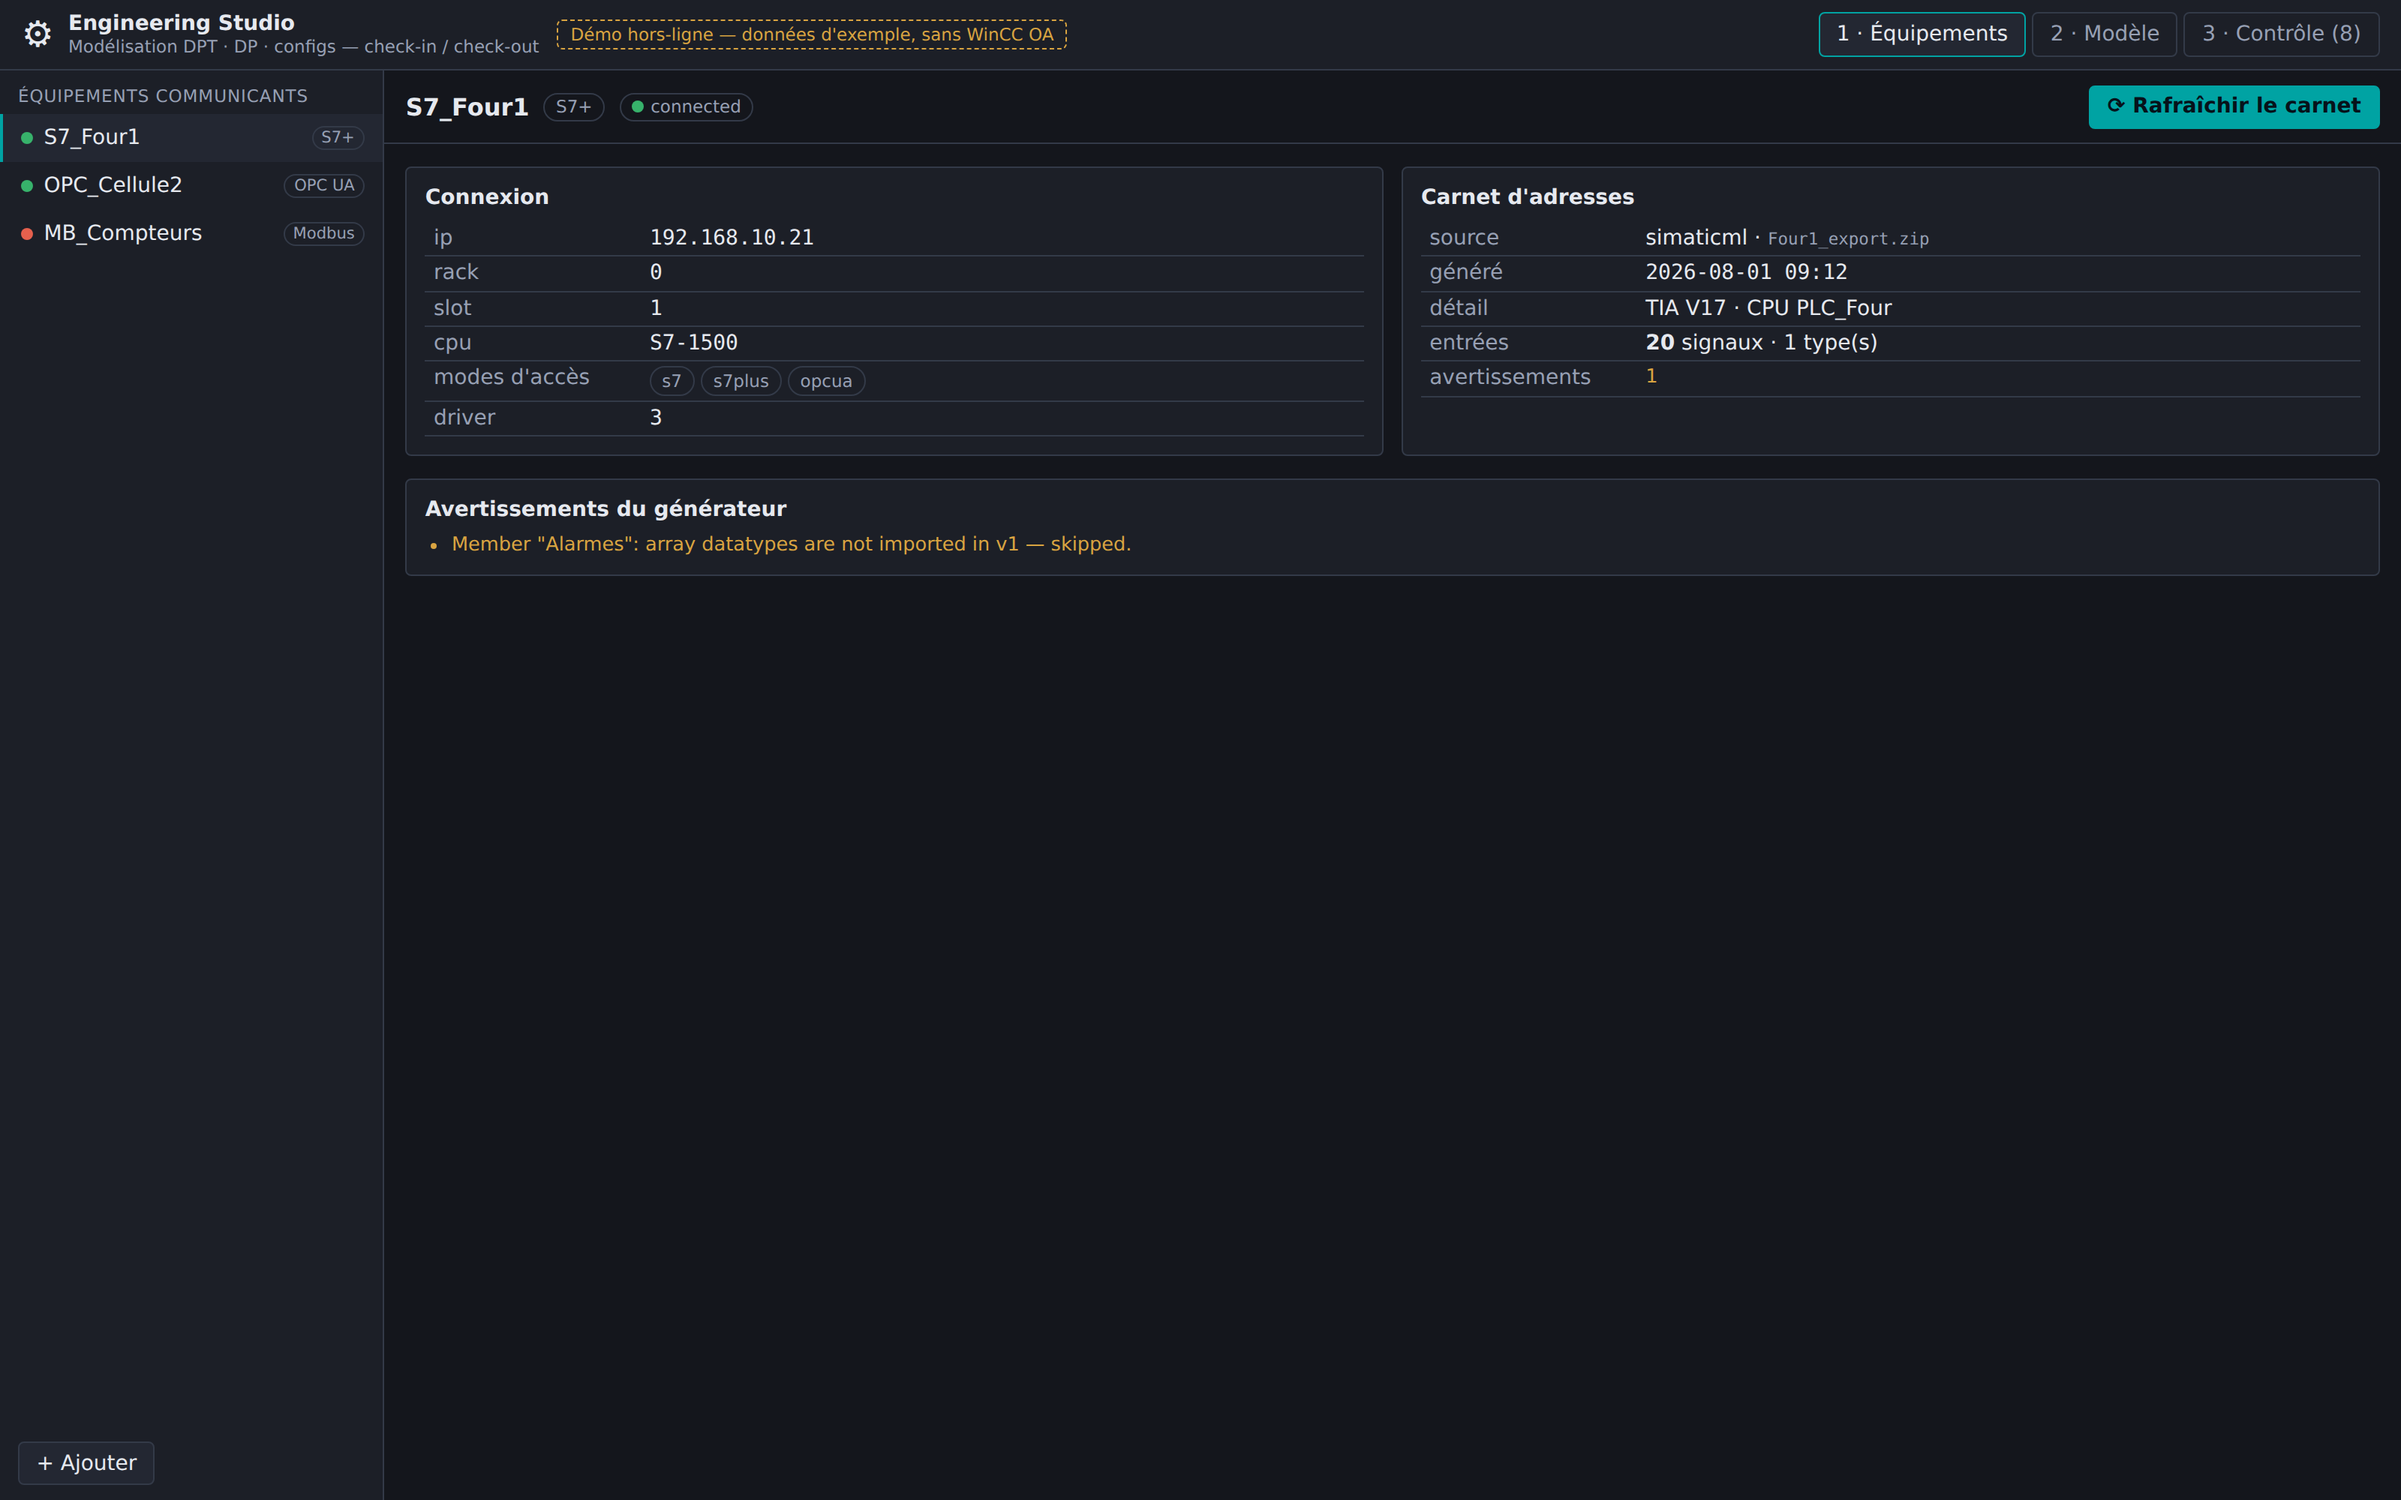
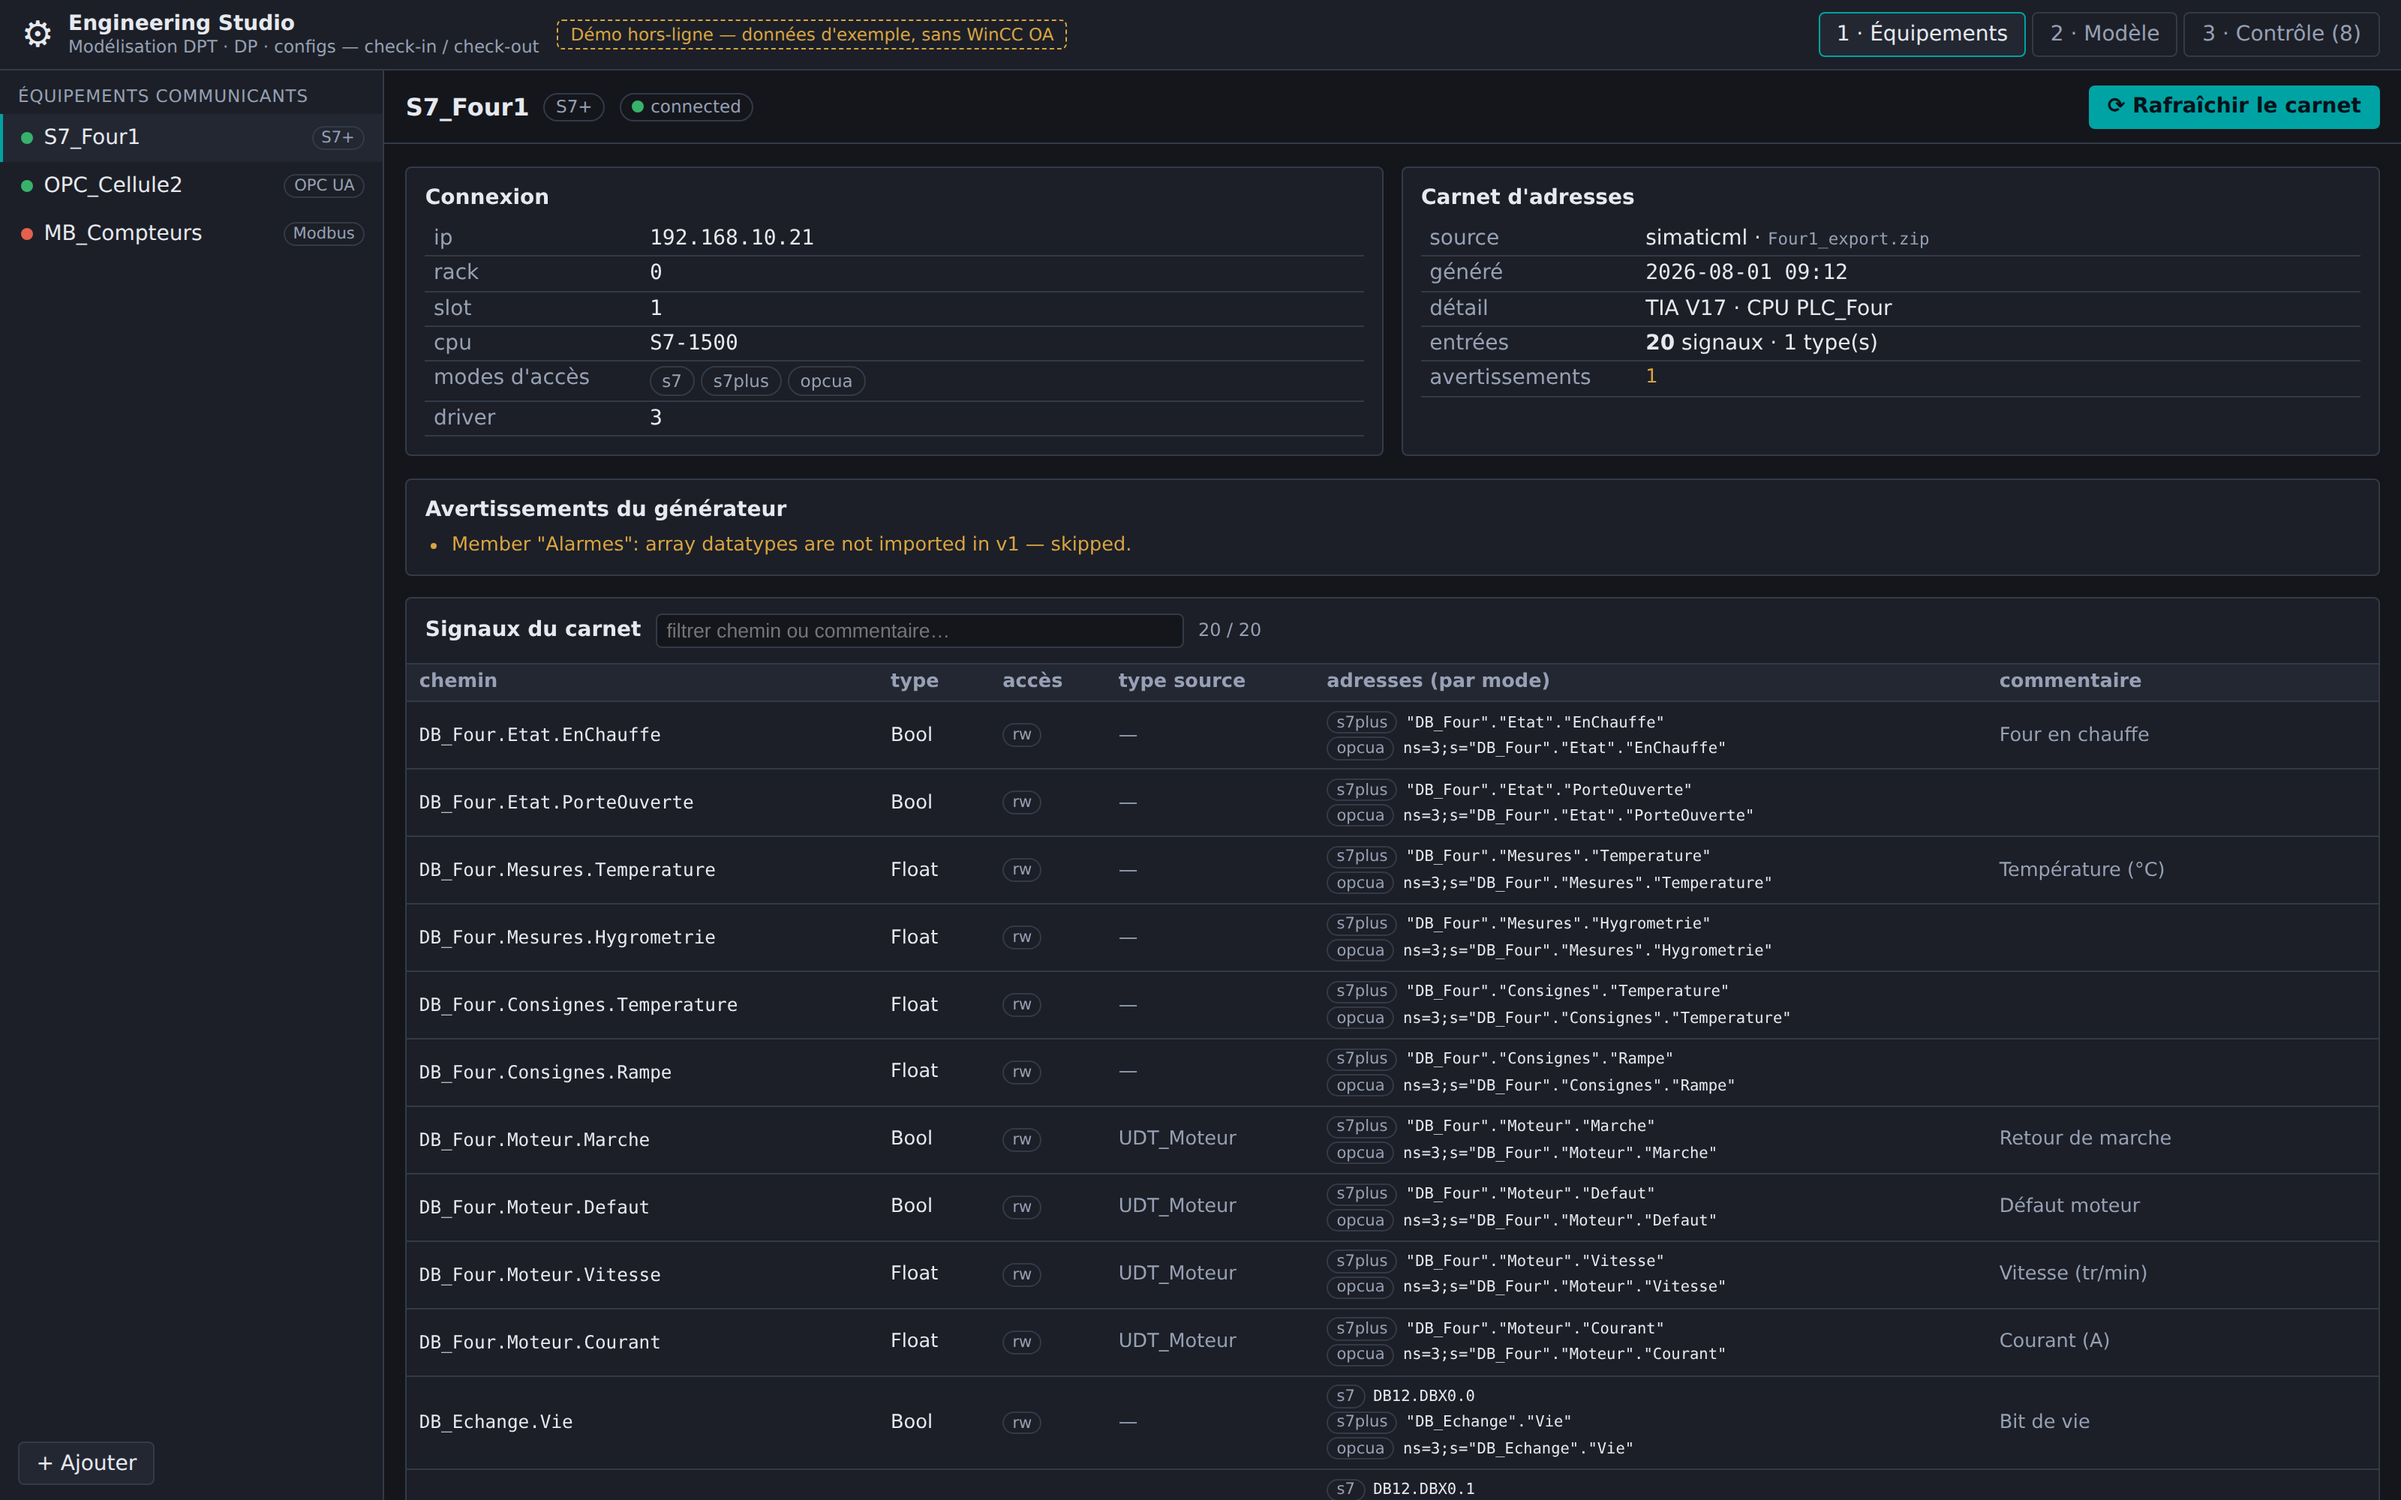
feat(eng-studio): show the address book's signals in the Devices panel
The Devices/address-book panel previously showed only book metadata; the signals
were browsable only in the Model panel. Add a filterable "Signaux du carnet"
table right in the address-book page: per signal, its path, WinCC OA leaf type,
access, source type (UDT origin), the CANDIDATE ADDRESS PER ACCESS MODE
(s7 classic operand for standard blocks, s7plus/opcua symbolic) and comment.

The Devices panel body is now scrollable to hold the table.

Claude-Session: https://claude.ai/code/session_01MwNmzQMzA9TWadsF5AoXxT

diff --git a/libs/wui-eng-studio/src/eng-studio.ts b/libs/wui-eng-studio/src/eng-studio.ts
@@ -49,6 +49,8 @@ export class WuiEngStudio extends LitElement {
   @state() private selectedDeviceId: string | null = null;
   @state() private book: AddressBook | null = null;
   @state() private bookFilter = '';
+  /** Filter for the signal table shown in the Devices panel's address book. */
+  @state() private signalFilter = '';
   @state() private workspace: Workspace | null = null;
   @state() private live: LiveSnapshot | null = null;
   @state() private plan: EngPlan | null = null;
@@ -197,35 +199,93 @@ export class WuiEngStudio extends LitElement {
           ? html`<button class="btn primary" ?disabled=${this.busy} @click=${this.onRefreshBook}>⟳ Rafraîchir le carnet</button>`
           : nothing}
       </div>
-      <div class="device-grid">
-        <section class="card">
-          <div class="card-title">Connexion</div>
-          <table class="kv">
-            ${Object.entries(device.connection).map(
-              ([k, v]) => html`<tr><td>${k}</td><td class="mono">${String(v)}</td></tr>`
-            )}
-            <tr><td>modes d'accès</td><td>${device.accessModes.map((m) => html`<span class="chip">${m}</span> `)}</td></tr>
-            <tr><td>driver</td><td class="mono">${device.driverNumber ?? '—'}</td></tr>
-          </table>
-        </section>
-        <section class="card">
-          <div class="card-title">Carnet d'adresses</div>
-          ${book
-            ? html`
-                <table class="kv">
-                  <tr><td>source</td><td>${book.provenance.kind}${book.provenance.file ? html` · <code>${book.provenance.file}</code>` : nothing}</td></tr>
-                  <tr><td>généré</td><td class="mono">${book.provenance.generatedAt.replace('T', ' ').slice(0, 16)}</td></tr>
-                  <tr><td>détail</td><td>${book.provenance.detail ?? '—'}</td></tr>
-                  <tr><td>entrées</td><td><b>${book.entries.length}</b> signaux · ${book.types.length} type(s)</td></tr>
-                  ${book.warnings.length > 0 ? html`<tr><td>avertissements</td><td class="warn-text">${book.warnings.length}</td></tr>` : nothing}
-                </table>
-              `
-            : html`<div class="empty small">Pas encore de carnet — ingérez un export SimaticML ou lancez un browse.</div>`}
-        </section>
+      <div class="panel-scroll">
+        <div class="device-grid">
+          <section class="card">
+            <div class="card-title">Connexion</div>
+            <table class="kv">
+              ${Object.entries(device.connection).map(
+                ([k, v]) => html`<tr><td>${k}</td><td class="mono">${String(v)}</td></tr>`
+              )}
+              <tr><td>modes d'accès</td><td>${device.accessModes.map((m) => html`<span class="chip">${m}</span> `)}</td></tr>
+              <tr><td>driver</td><td class="mono">${device.driverNumber ?? '—'}</td></tr>
+            </table>
+          </section>
+          <section class="card">
+            <div class="card-title">Carnet d'adresses</div>
+            ${book
+              ? html`
+                  <table class="kv">
+                    <tr><td>source</td><td>${book.provenance.kind}${book.provenance.file ? html` · <code>${book.provenance.file}</code>` : nothing}</td></tr>
+                    <tr><td>généré</td><td class="mono">${book.provenance.generatedAt.replace('T', ' ').slice(0, 16)}</td></tr>
+                    <tr><td>détail</td><td>${book.provenance.detail ?? '—'}</td></tr>
+                    <tr><td>entrées</td><td><b>${book.entries.length}</b> signaux · ${book.types.length} type(s)</td></tr>
+                    ${book.warnings.length > 0 ? html`<tr><td>avertissements</td><td class="warn-text">${book.warnings.length}</td></tr>` : nothing}
+                  </table>
+                `
+              : html`<div class="empty small">Pas encore de carnet — ingérez un export SimaticML ou lancez un browse.</div>`}
+          </section>
+        </div>
+        ${book && book.warnings.length > 0
+          ? html`<section class="card warnings"><div class="card-title">Avertissements du générateur</div><ul>${book.warnings.map((w) => html`<li>${w}</li>`)}</ul></section>`
+          : nothing}
+        ${book ? this.renderDeviceSignals(book) : nothing}
       </div>
-      ${book && book.warnings.length > 0
-        ? html`<section class="card warnings"><div class="card-title">Avertissements du générateur</div><ul>${book.warnings.map((w) => html`<li>${w}</li>`)}</ul></section>`
-        : nothing}
+    `;
+  }
+
+  /** Signal table of the current device's address book (in the Devices panel). */
+  private renderDeviceSignals(book: AddressBook): TemplateResult {
+    const entries = filterEntries(book, this.signalFilter);
+    const modes = this.currentDevice()?.accessModes ?? [];
+    return html`
+      <section class="card signals">
+        <div class="signals-head">
+          <div class="card-title">Signaux du carnet</div>
+          <input
+            class="filter"
+            placeholder="filtrer chemin ou commentaire…"
+            .value=${this.signalFilter}
+            @input=${(e: Event) => (this.signalFilter = (e.target as HTMLInputElement).value)}
+          />
+          <span class="soft signals-count">${entries.length} / ${book.entries.length}</span>
+        </div>
+        <div class="signals-scroll">
+          <table class="grid">
+            <thead>
+              <tr>
+                <th>chemin</th><th>type</th><th>accès</th>
+                <th>type source</th><th>adresses (par mode)</th><th>commentaire</th>
+              </tr>
+            </thead>
+            <tbody>
+              ${entries.map((entry) => this.renderSignalRow(entry, modes))}
+            </tbody>
+          </table>
+        </div>
+      </section>
+    `;
+  }
+
+  private renderSignalRow(entry: BookEntry, deviceModes: string[]): TemplateResult {
+    // Order the candidate addresses by the device's access modes first.
+    const present = Object.keys(entry.addresses);
+    const ordered = [...deviceModes.filter((m) => present.includes(m)), ...present.filter((m) => !deviceModes.includes(m))];
+    return html`
+      <tr>
+        <td class="mono dpe">${entry.path}</td>
+        <td>${entry.leafType}${entry.unmapped ? html` <span class="chip conflict" title="type non mappé">?</span>` : nothing}</td>
+        <td><span class="chip acc">${entry.access}</span></td>
+        <td class="soft">${entry.typeId ?? '—'}</td>
+        <td class="addr-cell">
+          ${ordered.length === 0
+            ? html`<span class="soft">—</span>`
+            : ordered.map(
+                (mode) => html`<div class="addr-line"><span class="chip mode">${mode}</span><code>${entry.addresses[mode as keyof typeof entry.addresses]}</code></div>`
+              )}
+        </td>
+        <td class="soft comment">${entry.comment ?? ''}</td>
+      </tr>
     `;
   }
 

diff --git a/libs/wui-eng-studio/src/eng-studio/eng-styles.ts b/libs/wui-eng-studio/src/eng-studio/eng-styles.ts
@@ -152,11 +152,56 @@ export const engStudioStyles = [
       color: var(--eng-success);
     }
     /* panel 1 */
+    .panel-scroll {
+      flex: 1;
+      min-height: 0;
+      overflow: auto;
+    }
     .device-grid {
       display: grid;
       grid-template-columns: 1fr 1fr;
       gap: 0.75rem;
       padding: 0.9rem;
+    }
+    .card.signals {
+      margin: 0 0.9rem 0.9rem;
+      padding: 0;
+    }
+    .signals-head {
+      display: flex;
+      align-items: center;
+      gap: 0.6rem;
+      padding: 0.6rem 0.75rem;
+      border-bottom: 1px solid var(--eng-border);
+    }
+    .signals-head .card-title {
+      margin: 0;
+    }
+    .signals-head .filter {
+      flex: 1;
+      max-width: 22rem;
+    }
+    .signals-count {
+      font-size: 0.75rem;
+    }
+    .signals-scroll {
+      overflow: auto;
+    }
+    .addr-cell {
+      white-space: normal;
+    }
+    .addr-line {
+      display: flex;
+      align-items: center;
+      gap: 0.35rem;
+      padding: 0.05rem 0;
+    }
+    .addr-line code {
+      color: var(--eng-text);
+    }
+    td.comment {
+      white-space: normal;
+      max-width: 18rem;
     }
     .card {
       background: var(--eng-surface);
